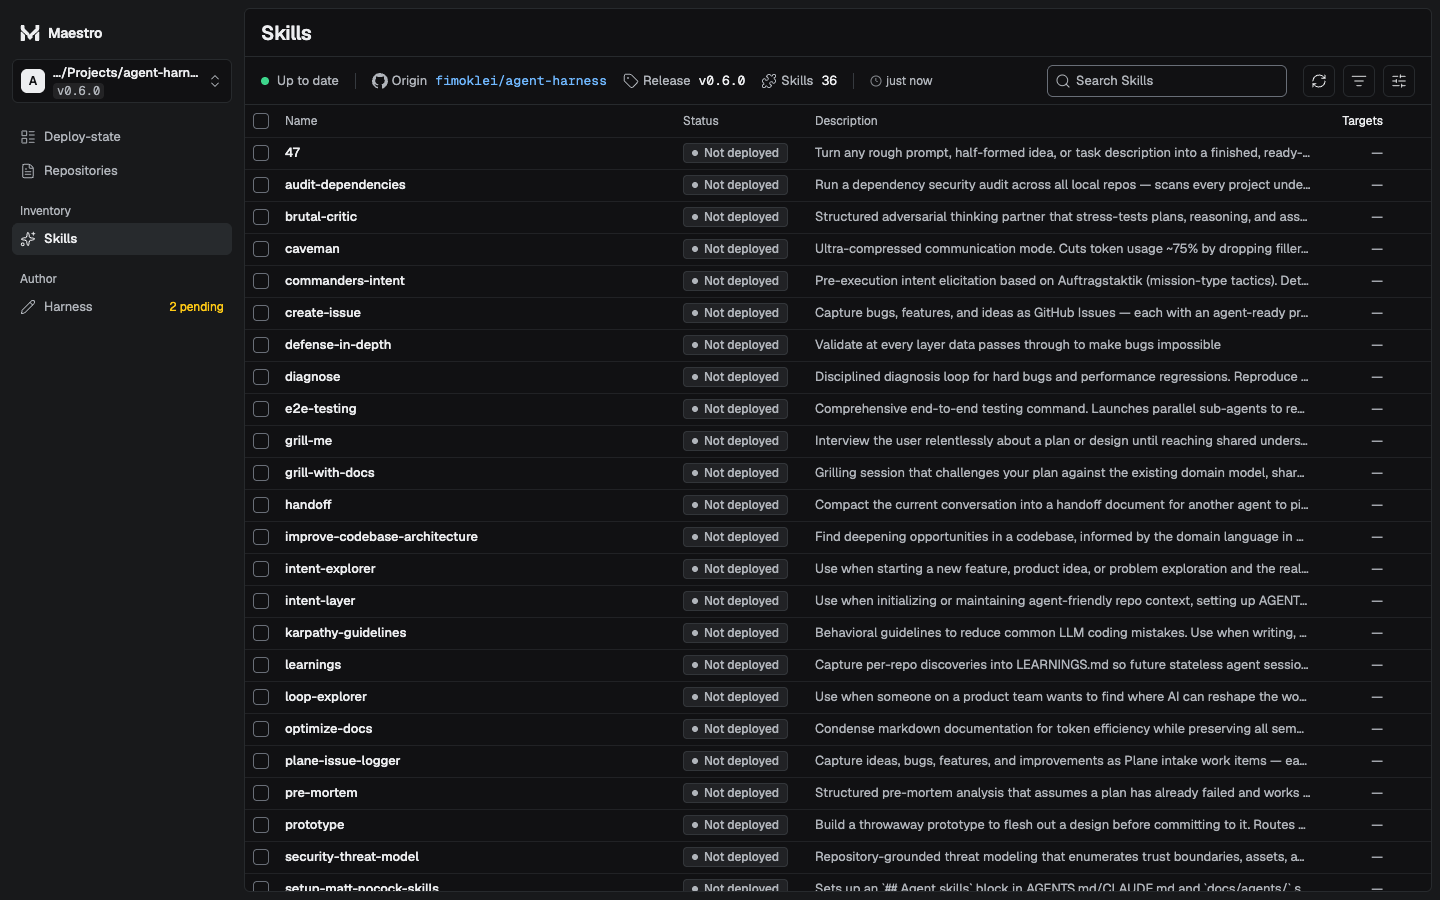
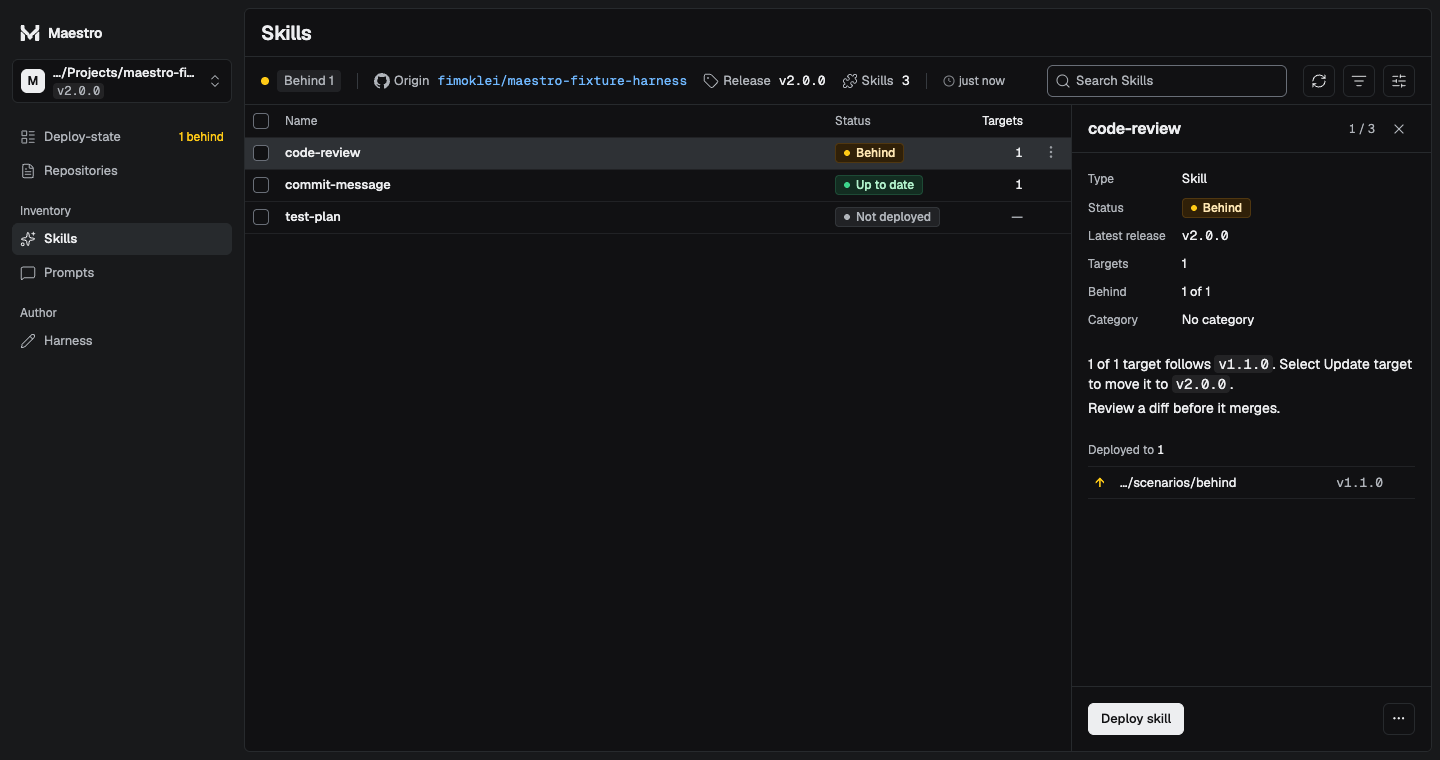
docs: update the README for v0.1.4 and retake its screenshots
Add prompts, Withdraw from release and categories to the README, and add a Prompts screenshot.

Screenshots from pnpm smoke --scenario behind at 1440 x 760, agentation off, light and dark: Skills with the code-review pane open, Prompts with the bug-report pane open.

diff --git a/README.md b/README.md
@@ -5,22 +5,24 @@
 [![License: MIT](https://img.shields.io/badge/License-MIT-blue.svg)](LICENSE)
 [![Release](https://img.shields.io/github/v/release/fimoklei/maestro?include_prereleases)](https://github.com/fimoklei/maestro/releases)
 
-**See and steer your AI agent skills from one screen.**
+**See and steer your team's AI agent skills and prompts from one screen.**
 
-> **Alpha.** Maestro works for skills today. Hooks and MCP servers are not
-> supported yet. Expect rough edges and breaking changes between releases.
+> **Alpha.** Maestro works for skills and prompts today. Hooks and MCP servers
+> are not supported yet. Expect rough edges and breaking changes between releases.
 
 Your coding agents (Claude Code, Codex and others) read skills from folders on
 your machine: some per project, some global. After a few weeks you have copies
-everywhere, at different versions, and no single place that shows them.
+everywhere, at different versions, and no single place that shows them. The
+prompts your team reuses end up in chat histories and personal notes.
 
 Maestro is a local web app that shows every skill you have, where each copy
 is deployed and which copies are behind. From the same screen you deploy,
-update and publish skills for your whole team.
+update and publish skills for your whole team, and keep the prompts you share
+next to them.
 
 <picture>
   <source media="(prefers-color-scheme: dark)" srcset="docs/images/skills-dark.png">
-  <img src="docs/images/skills.png" alt="The Skills screen: every skill in the Harness, with its status and the number of targets it is deployed to" width="960">
+  <img src="docs/images/skills.png" alt="The Skills screen: each skill in the Harness with its status and targets, and a detail pane for a skill that is behind" width="960">
 </picture>
 
 Maestro does not install anything itself. [APM](https://microsoft.github.io/apm/),
@@ -67,13 +69,15 @@ To update later, check out the newer tag and run the script again. The
 
 ## How it works
 
-Three words appear everywhere in the cockpit:
+Four words appear everywhere in the cockpit:
 
 - **Harness** — a GitHub repository that holds the skills your team shares.
   Each release of the Harness is a git tag.
 - **Target** — a place a skill is deployed to: a project you registered, or
   the global folder a tool reads.
 - **Deploy** — copy one skill, at one released version, into one target.
+- **Prompt** — a reusable text in the Harness. You copy it from Prompts and
+  paste it into your coding agent. Prompts are not deployed.
 
 The first screen asks for a Harness. Give it one of these:
 
@@ -86,10 +90,20 @@ After that, the daily loop is:
 
 1. **Deploy** a skill from Skills to a project or to your global folder.
 2. **Update** a target when the Harness has a newer release.
-3. **Import** a skill you wrote into the Harness and **propose the change**.
-   Maestro opens a pull request on the Harness.
+3. **Import** a skill or prompt into the Harness, or edit one, and **propose
+   the change**. Maestro opens a pull request on the Harness.
 4. After the pull request is merged, **publish a release**. Maestro cuts a new
-   tag, and the skill can now be deployed.
+   tag, and the change reaches your team. A merged change you no longer want
+   leaves the next release with **Withdraw from release**.
+
+<picture>
+  <source media="(prefers-color-scheme: dark)" srcset="docs/images/prompts-dark.png">
+  <img src="docs/images/prompts.png" alt="The Prompts screen: prompts sorted by category, with a detail pane that shows a prompt's text, its example tab and Copy prompt" width="960">
+</picture>
+
+To keep a long list in order, sort skills and prompts into categories of your
+own. Open the Harness button at the top left, choose **Settings**, then
+**Categories**. Your teammates do not see them.
 
 ## Requirements
 
